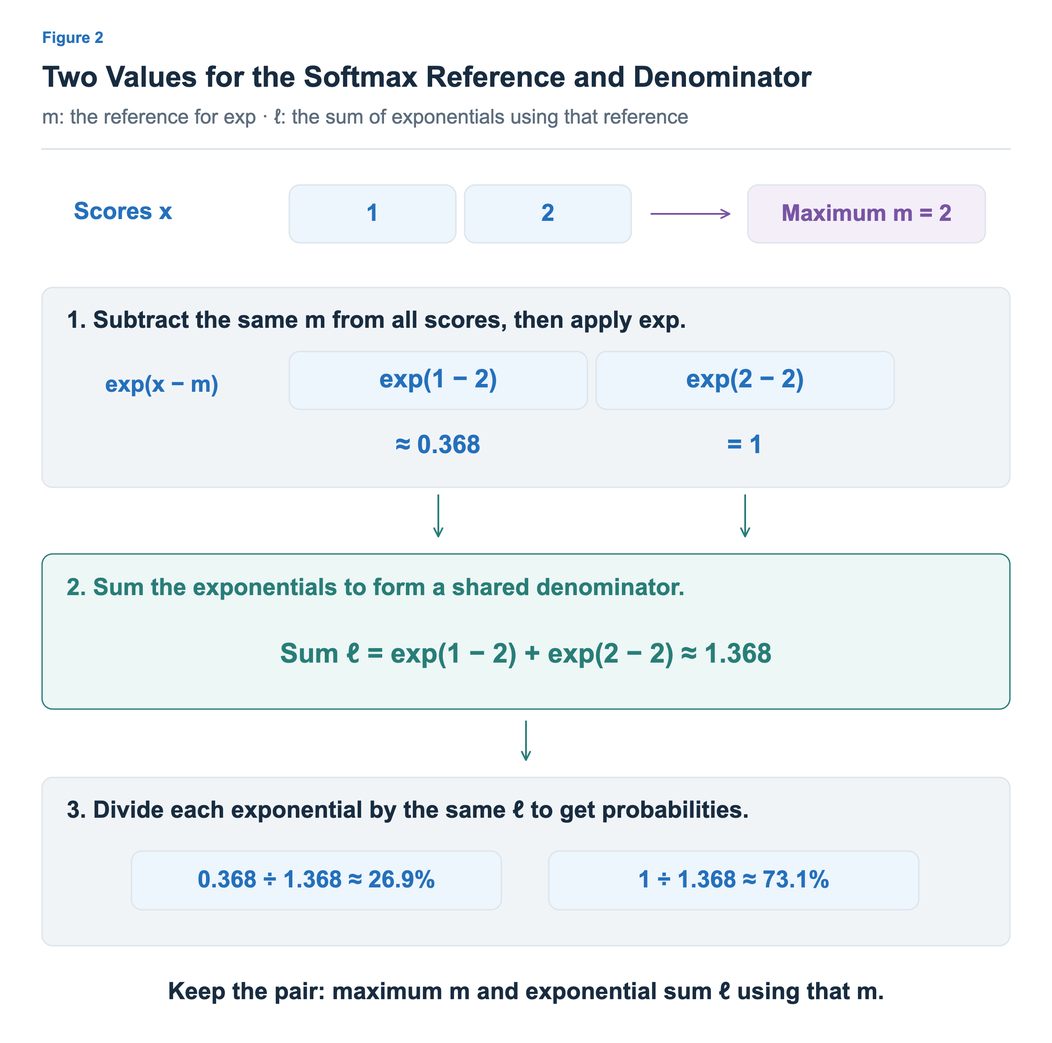
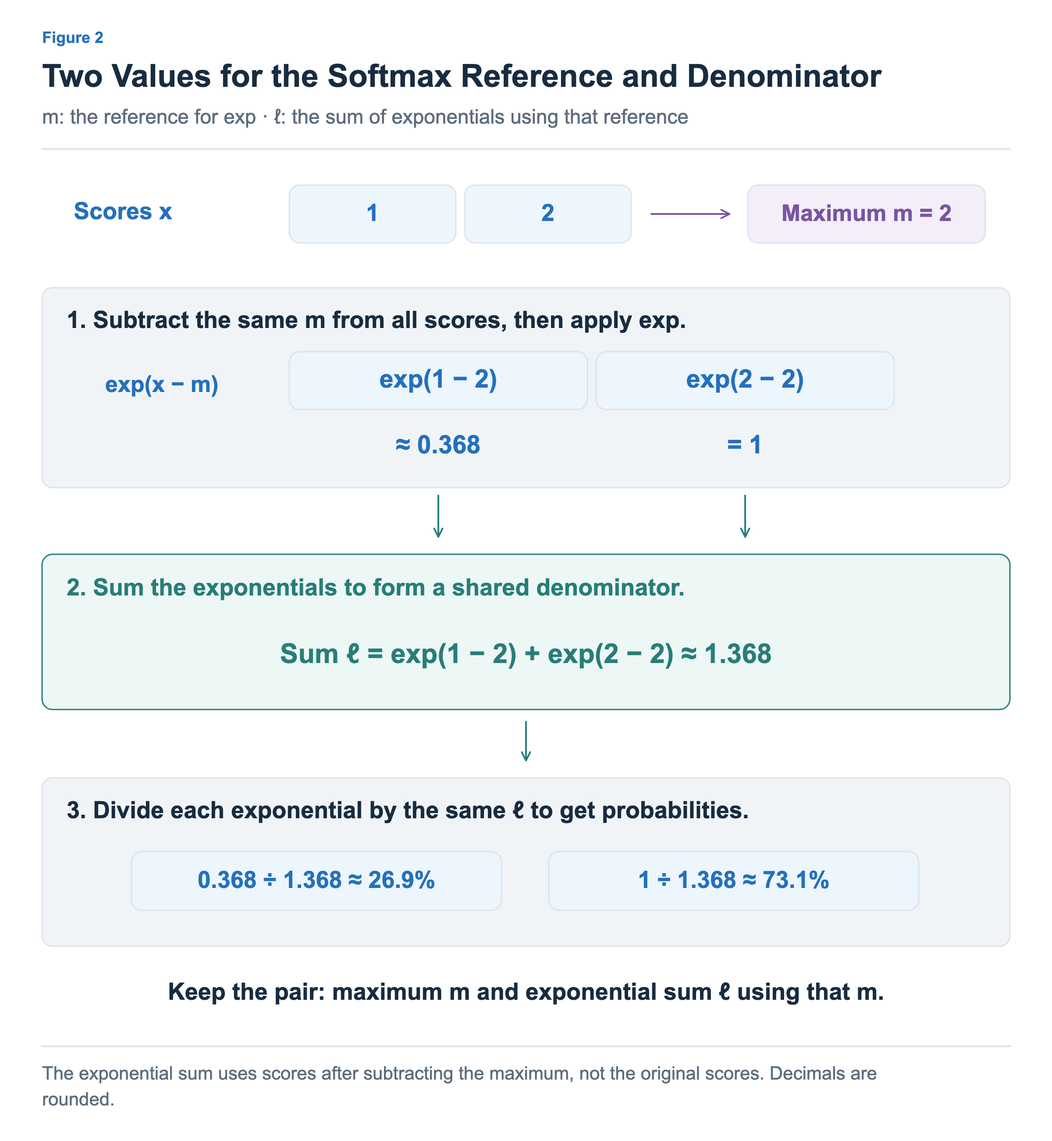
Port online-softmax figures to the shared visualization module
Figures are regenerated from src/data/figures/online-softmax with the standard frame
and in-image captions. Figures had no captions; new ko/en captions are drafted from the figures' own notes and the article text (please review).

diff --git a/src/data/figures/online-softmax/01-stable-softmax.ts b/src/data/figures/online-softmax/01-stable-softmax.ts
@@ -1,0 +1,87 @@
+import {C,Panel,markerUrl,type FigureSpec,type Locale} from '@llm-systems/viz';
+// Ported from the published SVG with its original geometry; replace parts with shared primitives when editing.
+export default {
+  articleId:"online-softmax",figureId:"01-stable-softmax",number:"01-stable-softmax",
+  layout:'wide',screens:['desktop'],
+  eyebrow:["그림 1","Figure 1"],
+  title:["최댓값을 빼서 안정적으로 계산하기","Subtracting the Maximum for Stable Computation"],
+  subtitle:["소프트맥스 복습: 점수에 exp 적용 → 모두 더하기 → 각 값을 합으로 나누기","Softmax recap: Apply exp → Sum all values → Divide each value by the sum"],
+  alt:["점수 1000,1001,1002의 소프트맥스를 비교한다. 직접 exp를 계산하면 FP32와 FP64 범위를 넘어서 유효한 확률을 계산할 수 없다. 모든 점수에서 최댓값 1002를 빼면 -2,-1,0이고 exp 값은 약 0.135,0.368,1이다. 합 약 1.503으로 나누면 약 9.0%,24.5%,66.5%이다. 분자와 분모에 같은 양수 exp(-max)를 곱하므로 실수 연산에서 확률은 동일하다. 부동소수점의 비트 단위 동일성을 뜻하지 않는다. 유한한 점수 예시이며 반올림한 수치다.","Compare softmax for scores 1000,1001,1002. Direct exponentiation exceeds the FP32 and FP64 ranges and cannot yield valid probabilities. Subtracting the maximum 1002 gives -2,-1,0, whose exponentials are about 0.135,0.368,1. Dividing by their sum, about 1.503, gives about 9.0%,24.5%,66.5%. Scaling the numerator and denominator by the same positive factor exp(-max) preserves the probabilities in real arithmetic. This does not mean bitwise identical floating-point results. The example uses finite scores and rounded values."],
+  caption:["실수 연산 기준으로 같은 확률이며, 부동소수점 결과가 비트 단위로 같다는 뜻은 아닙니다. 소수는 반올림한 값입니다.","The probabilities are equal in exact arithmetic; this does not mean bit-identical floating-point results. Decimals are rounded."],
+  sources:[],
+  panels(locale:Locale){
+    const p=new Panel(locale,null,1016,1104,[48,206]);
+    p.el("rect",{x:48,y:207,width:536,height:853,rx:12,fill:C.grayFill,stroke:C.line,"stroke-width":1.5});
+    p.el('text',{x:316,y:253,fill:C.orange,"font-size":29,"font-weight":700,"text-anchor":"middle"},["원래 점수로 계산","Use the original scores"]);
+    p.el('text',{x:76,y:299,fill:C.muted,"font-size":21,"font-weight":400,"text-anchor":"start"},["점수","Scores"]);
+    p.el("rect",{x:96,y:317,width:136.66666666666666,height:66,rx:12,fill:C.blueFill,stroke:C.line,"stroke-width":1.5});
+    p.el('text',{x:164.33333333333331,y:358,fill:C.blue,"font-size":27,"font-weight":600,"text-anchor":"middle"},"1000");
+    p.el("rect",{x:242.66666666666666,y:317,width:136.66666666666666,height:66,rx:12,fill:C.blueFill,stroke:C.line,"stroke-width":1.5});
+    p.el('text',{x:311,y:358,fill:C.blue,"font-size":27,"font-weight":600,"text-anchor":"middle"},"1001");
+    p.el("rect",{x:389.3333333333333,y:317,width:136.66666666666666,height:66,rx:12,fill:C.blueFill,stroke:C.line,"stroke-width":1.5});
+    p.el('text',{x:457.66666666666663,y:358,fill:C.blue,"font-size":27,"font-weight":600,"text-anchor":"middle"},"1002");
+    p.el("path",{d:"M316,439 L316,459",fill:"none",stroke:C.orange,"stroke-width":2,"marker-end":markerUrl(C.orange)});
+    p.el('text',{x:316,y:426,fill:C.orange,"font-size":22,"font-weight":600,"text-anchor":"middle"},["점수를 그대로 사용","Keep scores unchanged"]);
+    p.el("rect",{x:96,y:474,width:136.66666666666666,height:66,rx:12,fill:C.orangeFill,stroke:C.line,"stroke-width":1.5});
+    p.el('text',{x:164.33333333333331,y:515,fill:C.orange,"font-size":27,"font-weight":600,"text-anchor":"middle"},"1000");
+    p.el("rect",{x:242.66666666666666,y:474,width:136.66666666666666,height:66,rx:12,fill:C.orangeFill,stroke:C.line,"stroke-width":1.5});
+    p.el('text',{x:311,y:515,fill:C.orange,"font-size":27,"font-weight":600,"text-anchor":"middle"},"1001");
+    p.el("rect",{x:389.3333333333333,y:474,width:136.66666666666666,height:66,rx:12,fill:C.orangeFill,stroke:C.line,"stroke-width":1.5});
+    p.el('text',{x:457.66666666666663,y:515,fill:C.orange,"font-size":27,"font-weight":600,"text-anchor":"middle"},"1002");
+    p.el("path",{d:"M316,553 L316,601",fill:"none",stroke:C.orange,"stroke-width":2,"marker-end":markerUrl(C.orange)});
+    p.el('text',{x:76,y:590,fill:C.muted,"font-size":21,"font-weight":400,"text-anchor":"start"},["exp 적용","Apply exp"]);
+    p.el("rect",{x:96,y:622,width:136.66666666666666,height:66,rx:12,fill:C.orangeFill,stroke:C.line,"stroke-width":1.5});
+    p.el('text',{x:164.33333333333331,y:663,fill:C.orange,"font-size":23,"font-weight":600,"text-anchor":"middle"},"exp(1000)");
+    p.el("rect",{x:242.66666666666666,y:622,width:136.66666666666666,height:66,rx:12,fill:C.orangeFill,stroke:C.line,"stroke-width":1.5});
+    p.el('text',{x:311,y:663,fill:C.orange,"font-size":23,"font-weight":600,"text-anchor":"middle"},"exp(1001)");
+    p.el("rect",{x:389.3333333333333,y:622,width:136.66666666666666,height:66,rx:12,fill:C.orangeFill,stroke:C.line,"stroke-width":1.5});
+    p.el('text',{x:457.66666666666663,y:663,fill:C.orange,"font-size":23,"font-weight":600,"text-anchor":"middle"},"exp(1002)");
+    p.el('text',{x:316,y:727,fill:C.orange,"font-size":23,"font-weight":700,"text-anchor":"middle"},["FP32·FP64에서 표현 범위를 넘음","Exceeds the FP32 / FP64 range"]);
+    p.el("path",{d:"M316,745 L316,786",fill:"none",stroke:C.orange,"stroke-width":2,"marker-end":markerUrl(C.orange)});
+    p.el("rect",{x:96,y:806,width:430,height:64,rx:12,fill:C.orangeFill,stroke:C.line,"stroke-width":1.5});
+    p.el('text',{x:311,y:846,fill:C.orange,"font-size":25,"font-weight":600,"text-anchor":"middle"},["exp 값의 합도 표현 불가","The sum is also out of range"]);
+    p.el('text',{x:316,y:909,fill:C.muted,"font-size":22,"font-weight":400,"text-anchor":"middle"},["각 exp 값을 합으로 나누기","Divide each exponential by the sum"]);
+    p.el("rect",{x:96,y:938,width:430,height:66,rx:12,fill:C.orangeFill,stroke:C.line,"stroke-width":1.5});
+    p.el('text',{x:311,y:979,fill:C.orange,"font-size":(locale==='ko'?23:22),"font-weight":600,"text-anchor":"middle"},["유효한 확률을 계산할 수 없음","Cannot compute valid probabilities"]);
+    p.el("rect",{x:616,y:207,width:536,height:853,rx:12,fill:C.grayFill,stroke:C.line,"stroke-width":1.5});
+    p.el('text',{x:884,y:253,fill:C.teal,"font-size":29,"font-weight":700,"text-anchor":"middle"},["max를 빼고 계산","Subtract the maximum"]);
+    p.el('text',{x:644,y:299,fill:C.muted,"font-size":21,"font-weight":400,"text-anchor":"start"},["점수","Scores"]);
+    p.el("rect",{x:664,y:317,width:136.66666666666666,height:66,rx:12,fill:C.blueFill,stroke:C.line,"stroke-width":1.5});
+    p.el('text',{x:732.3333333333334,y:358,fill:C.blue,"font-size":27,"font-weight":600,"text-anchor":"middle"},"1000");
+    p.el("rect",{x:810.6666666666666,y:317,width:136.66666666666666,height:66,rx:12,fill:C.blueFill,stroke:C.line,"stroke-width":1.5});
+    p.el('text',{x:879,y:358,fill:C.blue,"font-size":27,"font-weight":600,"text-anchor":"middle"},"1001");
+    p.el("rect",{x:957.3333333333333,y:317,width:136.66666666666666,height:66,rx:12,fill:C.blueFill,stroke:C.line,"stroke-width":1.5});
+    p.el('text',{x:1025.6666666666665,y:358,fill:C.blue,"font-size":27,"font-weight":600,"text-anchor":"middle"},"1002");
+    p.el("path",{d:"M884,439 L884,459",fill:"none",stroke:C.teal,"stroke-width":2,"marker-end":markerUrl(C.teal)});
+    p.el('text',{x:884,y:426,fill:C.teal,"font-size":22,"font-weight":600,"text-anchor":"middle"},["모든 점수에서 max = 1002 빼기","Subtract max = 1002 from all scores"]);
+    p.el("rect",{x:664,y:474,width:136.66666666666666,height:66,rx:12,fill:C.tealFill,stroke:C.line,"stroke-width":1.5});
+    p.el('text',{x:732.3333333333334,y:515,fill:C.teal,"font-size":27,"font-weight":600,"text-anchor":"middle"},"-2");
+    p.el("rect",{x:810.6666666666666,y:474,width:136.66666666666666,height:66,rx:12,fill:C.tealFill,stroke:C.line,"stroke-width":1.5});
+    p.el('text',{x:879,y:515,fill:C.teal,"font-size":27,"font-weight":600,"text-anchor":"middle"},"-1");
+    p.el("rect",{x:957.3333333333333,y:474,width:136.66666666666666,height:66,rx:12,fill:C.tealFill,stroke:C.line,"stroke-width":1.5});
+    p.el('text',{x:1025.6666666666665,y:515,fill:C.teal,"font-size":27,"font-weight":600,"text-anchor":"middle"},"0");
+    p.el("path",{d:"M884,553 L884,601",fill:"none",stroke:C.teal,"stroke-width":2,"marker-end":markerUrl(C.teal)});
+    p.el('text',{x:644,y:590,fill:C.muted,"font-size":21,"font-weight":400,"text-anchor":"start"},["exp 적용","Apply exp"]);
+    p.el("rect",{x:664,y:622,width:136.66666666666666,height:66,rx:12,fill:C.tealFill,stroke:C.line,"stroke-width":1.5});
+    p.el('text',{x:732.3333333333334,y:663,fill:C.teal,"font-size":23,"font-weight":600,"text-anchor":"middle"},"0.135");
+    p.el("rect",{x:810.6666666666666,y:622,width:136.66666666666666,height:66,rx:12,fill:C.tealFill,stroke:C.line,"stroke-width":1.5});
+    p.el('text',{x:879,y:663,fill:C.teal,"font-size":23,"font-weight":600,"text-anchor":"middle"},"0.368");
+    p.el("rect",{x:957.3333333333333,y:622,width:136.66666666666666,height:66,rx:12,fill:C.tealFill,stroke:C.line,"stroke-width":1.5});
+    p.el('text',{x:1025.6666666666665,y:663,fill:C.teal,"font-size":23,"font-weight":600,"text-anchor":"middle"},"1");
+    p.el('text',{x:884,y:727,fill:C.teal,"font-size":23,"font-weight":700,"text-anchor":"middle"},["가장 큰 exp 값은 1","The largest exponential is 1"]);
+    p.el("path",{d:"M884,745 L884,786",fill:"none",stroke:C.teal,"stroke-width":2,"marker-end":markerUrl(C.teal)});
+    p.el("rect",{x:664,y:806,width:430,height:64,rx:12,fill:C.tealFill,stroke:C.line,"stroke-width":1.5});
+    p.el('text',{x:879,y:846,fill:C.teal,"font-size":25,"font-weight":600,"text-anchor":"middle"},["합 ≈ 1.503","Sum ≈ 1.503"]);
+    p.el('text',{x:884,y:909,fill:C.muted,"font-size":22,"font-weight":400,"text-anchor":"middle"},["각 exp 값을 합으로 나누기","Divide each exponential by the sum"]);
+    p.el("rect",{x:664,y:938,width:136.66666666666666,height:66,rx:12,fill:C.tealFill,stroke:C.line,"stroke-width":1.5});
+    p.el('text',{x:732.3333333333334,y:979,fill:C.teal,"font-size":25,"font-weight":600,"text-anchor":"middle"},"9.0%");
+    p.el("rect",{x:810.6666666666666,y:938,width:136.66666666666666,height:66,rx:12,fill:C.tealFill,stroke:C.line,"stroke-width":1.5});
+    p.el('text',{x:879,y:979,fill:C.teal,"font-size":25,"font-weight":600,"text-anchor":"middle"},"24.5%");
+    p.el("rect",{x:957.3333333333333,y:938,width:136.66666666666666,height:66,rx:12,fill:C.tealFill,stroke:C.line,"stroke-width":1.5});
+    p.el('text',{x:1025.6666666666665,y:979,fill:C.teal,"font-size":25,"font-weight":600,"text-anchor":"middle"},"66.5%");
+    p.el("rect",{x:48,y:1093,width:1104,height:121,rx:12,fill:C.tealFill,stroke:C.teal,"stroke-width":1.5});
+    p.el('text',{x:600,y:1139,fill:C.teal,"font-size":27,"font-weight":700,"text-anchor":"middle"},["분자와 분모에 같은 배율 exp(−max)가 적용됩니다.","The same factor exp(−max) scales the numerator and denominator."]);
+    p.el('text',{x:600,y:1184,fill:C.teal,"font-size":25,"font-weight":400,"text-anchor":"middle"},["수학적으로 같은 확률을, 크기가 제한된 exp 값으로 계산합니다.","Mathematically identical probabilities, computed with bounded exponentials."]);
+    return [p];
+  },
+} satisfies FigureSpec;

diff --git a/src/data/figures/online-softmax/03-online-update.ts b/src/data/figures/online-softmax/03-online-update.ts
@@ -1,0 +1,74 @@
+import {C,Panel,markerUrl,type FigureSpec,type Locale} from '@llm-systems/viz';
+// Ported from the published SVG with its original geometry; replace parts with shared primitives when editing.
+export default {
+  articleId:"online-softmax",figureId:"03-online-update",number:"03-online-update",
+  layout:'wide',screens:['desktop'],
+  eyebrow:["그림 3","Figure 3"],
+  title:["새 점수를 반영해 max와 지수합 갱신하기","Updating the Maximum and Sum with New Scores"],
+  subtitle:["점수 묶음을 순서대로 읽으며, 지금까지 처리한 점수의 두 값을 유지합니다.","Read chunks in order, keeping two values for all scores processed so far."],
+  alt:["점수 묶음 1,2 다음 0,1 다음 3,2를 순서대로 처리한다. 첫 상태는 m=2와 l 약 1.368이다. 0,1은 기존 최대보다 작으므로 m=2를 유지하고 exp(0-2)+exp(1-2) 약 0.503을 더해 l 약 1.871을 얻는다. 다음 3,2에서 m은 3으로 커진다. 이전 l 전체에 exp(2-3)을 곱해 약 0.688로 보정하고 새 묶음의 exp(3-3)+exp(2-3) 약 1.368을 더한다. 최종 m=3, l 약 2.056이다. 이전 점수들을 다시 읽지 않고 누적 지수합 한 값에 보정 배율을 곱한다. 이 그림은 정규화 통계의 계산만 다룬다. 모든 확률의 출력에는 각 점수를 최종 m,l로 정규화하는 과정이 추가로 필요하다. 그림 수치는 정확한 계산 후 반올림했다.","Process chunks 1,2 then 0,1 then 3,2 in order. Start with m=2 and l about 1.368. Since 0,1 are below the previous maximum, keep m=2 and add exp(0-2)+exp(1-2), about 0.503, to obtain l about 1.871. The next chunk 3,2 raises m to 3. Multiply the entire previous l by exp(2-3), giving about 0.688, then add exp(3-3)+exp(2-3), about 1.368. The final m is 3 and l is about 2.056. Rescale the single accumulated sum without rereading earlier scores. This figure covers only normalization statistics. Outputting all probabilities additionally requires normalizing each score with the final m and l. Values are rounded after calculation at full precision."],
+  caption:["이 그림은 정규화 통계의 계산만 다룹니다. 확률을 출력하려면 각 점수를 최종 m과 ℓ로 정규화하는 과정이 더 필요합니다.","This figure covers only the normalization statistics; outputting probabilities also requires normalizing each score with the final m and ℓ."],
+  sources:[],
+  panels(locale:Locale){
+    const p=new Panel(locale,null,1471,1104,[48,206]);
+    p.el("rect",{x:48,y:205,width:1104,height:185,rx:12,fill:C.grayFill,stroke:C.line,"stroke-width":1.5});
+    p.el('text',{x:76,y:251,fill:C.ink,"font-size":27,"font-weight":700,"text-anchor":"start"},["시작 · 첫 묶음 [1, 2]를 처리한 상태","Start · After processing the first chunk [1, 2]"]);
+    p.el("rect",{x:85,y:284,width:110,height:66,rx:12,fill:C.paper,stroke:C.line,"stroke-width":1.5});
+    p.el('text',{x:140,y:325,fill:C.muted,"font-size":27,"font-weight":600,"text-anchor":"middle"},"1");
+    p.el("rect",{x:205,y:284,width:110,height:66,rx:12,fill:C.paper,stroke:C.line,"stroke-width":1.5});
+    p.el('text',{x:260,y:325,fill:C.muted,"font-size":27,"font-weight":600,"text-anchor":"middle"},"2");
+    p.el("path",{d:"M356,318 L672,318",fill:"none",stroke:C.muted,"stroke-width":2,"marker-end":markerUrl(C.muted)});
+    p.el('text',{x:511,y:298,fill:C.muted,"font-size":22,"font-weight":400,"text-anchor":"middle"},["두 값 유지","Keep two values"]);
+    p.el("rect",{x:709,y:284,width:169,height:66,rx:12,fill:C.purpleFill,stroke:C.line,"stroke-width":1.5});
+    p.el('text',{x:793.5,y:325,fill:C.purple,"font-size":27,"font-weight":600,"text-anchor":"middle"},"m = 2");
+    p.el("rect",{x:897,y:284,width:227,height:66,rx:12,fill:C.tealFill,stroke:C.line,"stroke-width":1.5});
+    p.el('text',{x:1010.5,y:325,fill:C.teal,"font-size":27,"font-weight":600,"text-anchor":"middle"},"ℓ ≈ 1.368");
+    p.el("rect",{x:48,y:429,width:1104,height:422,rx:12,fill:C.grayFill,stroke:C.line,"stroke-width":1.5});
+    p.el('text',{x:76,y:475,fill:C.purple,"font-size":29,"font-weight":700,"text-anchor":"start"},["① 새 묶음 [0, 1] · max 유지","① New chunk [0, 1] · Keep the maximum"]);
+    p.el("rect",{x:83,y:506,width:110,height:66,rx:12,fill:C.blueFill,stroke:C.line,"stroke-width":1.5});
+    p.el('text',{x:138,y:547,fill:C.blue,"font-size":27,"font-weight":600,"text-anchor":"middle"},"0");
+    p.el("rect",{x:203,y:506,width:110,height:66,rx:12,fill:C.blueFill,stroke:C.line,"stroke-width":1.5});
+    p.el('text',{x:258,y:547,fill:C.blue,"font-size":27,"font-weight":600,"text-anchor":"middle"},"1");
+    p.el('text',{x:386,y:547,fill:C.purple,"font-size":27,"font-weight":700,"text-anchor":"start"},["max(기존 max 2, 묶음 max 1) = 2","max(previous max 2, chunk max 1) = 2"]);
+    p.el("rect",{x:83,y:615,width:362,height:73,rx:12,fill:C.tealFill,stroke:C.line,"stroke-width":1.5});
+    p.el('text',{x:264,y:659.5,fill:C.teal,"font-size":27,"font-weight":600,"text-anchor":"middle"},["기존 합 ≈ 1.368","Previous sum ≈ 1.368"]);
+    p.el('text',{x:480,y:661,fill:C.teal,"font-size":35,"font-weight":700,"text-anchor":"middle"},"+");
+    p.el("rect",{x:515,y:615,width:609,height:73,rx:12,fill:C.blueFill,stroke:C.line,"stroke-width":1.5});
+    p.el('text',{x:819.5,y:659.5,fill:C.blue,"font-size":27,"font-weight":600,"text-anchor":"middle"},"exp(0 − 2) + exp(1 − 2) ≈ 0.503");
+    p.el('text',{x:264,y:726,fill:C.teal,"font-size":23,"font-weight":400,"text-anchor":"middle"},["같은 기준이므로 그대로","Same reference: keep the sum"]);
+    p.el('text',{x:819,y:726,fill:C.blue,"font-size":23,"font-weight":400,"text-anchor":"middle"},["새 점수도 max 2 기준으로 계산","New scores also use max 2"]);
+    p.el('text',{x:84,y:801,fill:C.ink,"font-size":25,"font-weight":600,"text-anchor":"start"},["두 묶음을 반영한 상태","After two chunks"]);
+    p.el("rect",{x:709,y:759,width:169,height:66,rx:12,fill:C.purpleFill,stroke:C.line,"stroke-width":1.5});
+    p.el('text',{x:793.5,y:800,fill:C.purple,"font-size":27,"font-weight":600,"text-anchor":"middle"},"m = 2");
+    p.el("rect",{x:897,y:759,width:227,height:66,rx:12,fill:C.tealFill,stroke:C.line,"stroke-width":1.5});
+    p.el('text',{x:1010.5,y:800,fill:C.teal,"font-size":27,"font-weight":600,"text-anchor":"middle"},"ℓ ≈ 1.871");
+    p.el("path",{d:"M980,864 L980,902",fill:"none",stroke:C.teal,"stroke-width":2,"marker-end":markerUrl(C.teal)});
+    p.el("rect",{x:48,y:921,width:1104,height:485,rx:12,fill:C.grayFill,stroke:C.line,"stroke-width":1.5});
+    p.el('text',{x:76,y:968,fill:C.purple,"font-size":29,"font-weight":700,"text-anchor":"start"},["② 새 묶음 [3, 2] · max 갱신","② New chunk [3, 2] · Update the maximum"]);
+    p.el("rect",{x:83,y:999,width:110,height:66,rx:12,fill:C.blueFill,stroke:C.line,"stroke-width":1.5});
+    p.el('text',{x:138,y:1040,fill:C.blue,"font-size":27,"font-weight":600,"text-anchor":"middle"},"3");
+    p.el("rect",{x:203,y:999,width:110,height:66,rx:12,fill:C.blueFill,stroke:C.line,"stroke-width":1.5});
+    p.el('text',{x:258,y:1040,fill:C.blue,"font-size":27,"font-weight":600,"text-anchor":"middle"},"2");
+    p.el('text',{x:386,y:1040,fill:C.purple,"font-size":27,"font-weight":700,"text-anchor":"start"},["max(기존 max 2, 묶음 max 3) = 3","max(previous max 2, chunk max 3) = 3"]);
+    p.el("rect",{x:83,y:1107,width:450,height:73,rx:12,fill:C.orangeFill,stroke:C.line,"stroke-width":1.5});
+    p.el('text',{x:308,y:1151.5,fill:C.orange,"font-size":28,"font-weight":600,"text-anchor":"middle"},["기존 합 × exp(2 − 3)","Previous sum × exp(2 − 3)"]);
+    p.el('text',{x:574,y:1153,fill:C.teal,"font-size":35,"font-weight":700,"text-anchor":"middle"},"+");
+    p.el("rect",{x:615,y:1107,width:509,height:73,rx:12,fill:C.blueFill,stroke:C.line,"stroke-width":1.5});
+    p.el('text',{x:869.5,y:1151.5,fill:C.blue,"font-size":27,"font-weight":600,"text-anchor":"middle"},"exp(3 − 3) + exp(2 − 3)");
+    p.el('text',{x:308,y:1220,fill:C.orange,"font-size":27,"font-weight":700,"text-anchor":"middle"},"≈ 1.871 × 0.368 ≈ 0.688");
+    p.el('text',{x:869,y:1220,fill:C.blue,"font-size":27,"font-weight":700,"text-anchor":"middle"},"≈ 1.368");
+    p.el('text',{x:308,y:1262,fill:C.orange,"font-size":23,"font-weight":400,"text-anchor":"middle"},["이전 합을 max 3 기준으로 보정","Rescale the previous sum to max 3"]);
+    p.el('text',{x:869,y:1262,fill:C.blue,"font-size":23,"font-weight":400,"text-anchor":"middle"},["새 점수도 max 3 기준으로 계산","New scores also use max 3"]);
+    p.el('text',{x:84,y:1355,fill:C.ink,"font-size":25,"font-weight":600,"text-anchor":"start"},["모든 묶음을 반영한 상태","After all chunks"]);
+    p.el("rect",{x:709,y:1312,width:169,height:66,rx:12,fill:C.purpleFill,stroke:C.line,"stroke-width":1.5});
+    p.el('text',{x:793.5,y:1353,fill:C.purple,"font-size":27,"font-weight":600,"text-anchor":"middle"},"m = 3");
+    p.el("rect",{x:897,y:1312,width:227,height:66,rx:12,fill:C.tealFill,stroke:C.line,"stroke-width":1.5});
+    p.el('text',{x:1010.5,y:1353,fill:C.teal,"font-size":27,"font-weight":600,"text-anchor":"middle"},"ℓ ≈ 2.056");
+    p.el("rect",{x:48,y:1450,width:1104,height:170,rx:12,fill:C.tealFill,stroke:C.teal,"stroke-width":1.5});
+    p.el('text',{x:600,y:1499,fill:C.teal,"font-size":29,"font-weight":700,"text-anchor":"middle"},["max를 먼저 정하고, 같은 max 기준의 합끼리 더합니다.","Choose the max first, then add sums using that same max."]);
+    p.el('text',{x:600,y:1550,fill:C.teal,"font-size":28,"font-weight":600,"text-anchor":"middle"},["새 지수합 = 기존 지수합 × exp(기존 max − 새 max)","New sum = previous sum × exp(previous max − new max)"]);
+    p.el('text',{x:600,y:1591,fill:C.teal,"font-size":28,"font-weight":600,"text-anchor":"middle"},["+ 새 점수들의 exp(점수 − 새 max) 합","+ sum of exp(score − new max) for the new scores"]);
+    p.el('text',{x:600,y:1662,fill:C.muted,"font-size":22,"font-weight":400,"text-anchor":"middle"},["max가 같으면 보정 배율은 exp(0) = 1 · 소수는 반올림한 값","Same max: the scale factor is exp(0) = 1 · Decimals are rounded"]);
+    return [p];
+  },
+} satisfies FigureSpec;

diff --git a/src/data/figures/online-softmax/02-max-and-exp-sum.ts b/src/data/figures/online-softmax/02-max-and-exp-sum.ts
@@ -1,0 +1,46 @@
+import {C,Panel,markerUrl,type FigureSpec,type Locale} from '@llm-systems/viz';
+// Ported from the published SVG with its original geometry; replace parts with shared primitives when editing.
+export default {
+  articleId:"online-softmax",figureId:"02-max-and-exp-sum",number:"02-max-and-exp-sum",
+  layout:'wide',screens:['desktop'],
+  eyebrow:["그림 2","Figure 2"],
+  title:["소프트맥스의 기준과 분모를 구하는 두 값","Two Values for the Softmax Reference and Denominator"],
+  subtitle:["m은 exp 계산의 기준 · ℓ은 같은 기준으로 계산한 exp 값의 합","m: the reference for exp · ℓ: the sum of exponentials using that reference"],
+  alt:["한 행의 점수 1,2에서 최댓값 m=2를 구한다. exp(1-2)는 약 0.368, exp(2-2)는 1이고 지수합 l은 약 1.368이다. 각 exp 값을 같은 l로 나누면 확률은 약 26.9%,73.1%이다. 지수합은 원래 점수에 exp를 적용한 합이 아니라 현재 최댓값을 뺀 점수에 exp를 적용한 합이다. 전체 확률 출력에는 각 점수도 필요하다. 표시 수치는 반올림했다.","For the row of scores 1,2, the maximum m is 2. exp(1-2) is about 0.368 and exp(2-2) is 1, giving exponential sum l about 1.368. Dividing each exponential by the same l gives probabilities of about 26.9%,73.1%. The sum contains exponentials after subtracting the current maximum, not exponentials of the original scores. Outputting all probabilities also requires each score. Displayed values are rounded."],
+  caption:["지수합은 원래 점수가 아니라 최댓값을 뺀 점수에 exp를 적용한 합입니다. 소수는 반올림한 값입니다.","The exponential sum uses scores after subtracting the maximum, not the original scores. Decimals are rounded."],
+  sources:[],
+  panels(locale:Locale){
+    const p=new Panel(locale,null,951,1104,[48,206]);
+    p.el('text',{x:84,y:250,fill:C.blue,"font-size":27,"font-weight":700,"text-anchor":"start"},["점수 x","Scores x"]);
+    p.el("rect",{x:330,y:211,width:190,height:66,rx:12,fill:C.blueFill,stroke:C.line,"stroke-width":1.5});
+    p.el('text',{x:425,y:252,fill:C.blue,"font-size":27,"font-weight":600,"text-anchor":"middle"},"1");
+    p.el("rect",{x:530,y:211,width:190,height:66,rx:12,fill:C.blueFill,stroke:C.line,"stroke-width":1.5});
+    p.el('text',{x:625,y:252,fill:C.blue,"font-size":27,"font-weight":600,"text-anchor":"middle"},"2");
+    p.el("path",{d:"M743,244 L831,244",fill:"none",stroke:C.purple,"stroke-width":2,"marker-end":markerUrl(C.purple)});
+    p.el("rect",{x:853,y:211,width:271,height:66,rx:12,fill:C.purpleFill,stroke:C.line,"stroke-width":1.5});
+    p.el('text',{x:988.5,y:252,fill:C.purple,"font-size":(locale==='ko'?27:26),"font-weight":600,"text-anchor":"middle"},["최댓값 m = 2","Maximum m = 2"]);
+    p.el("rect",{x:48,y:328,width:1104,height:228,rx:12,fill:C.grayFill,stroke:C.line,"stroke-width":1.5});
+    p.el('text',{x:76,y:374,fill:C.ink,"font-size":27,"font-weight":700,"text-anchor":"start"},["1. 모든 점수에서 같은 m을 빼고 exp를 계산합니다.","1. Subtract the same m from all scores, then apply exp."]);
+    p.el("rect",{x:330,y:401,width:340,height:66,rx:12,fill:C.blueFill,stroke:C.line,"stroke-width":1.5});
+    p.el('text',{x:500,y:442,fill:C.blue,"font-size":29,"font-weight":600,"text-anchor":"middle"},"exp(1 − 2)");
+    p.el("rect",{x:680,y:401,width:340,height:66,rx:12,fill:C.blueFill,stroke:C.line,"stroke-width":1.5});
+    p.el('text',{x:850,y:442,fill:C.blue,"font-size":29,"font-weight":600,"text-anchor":"middle"},"exp(2 − 2)");
+    p.el('text',{x:120,y:447,fill:C.blue,"font-size":26,"font-weight":600,"text-anchor":"start"},"exp(x − m)");
+    p.el('text',{x:500,y:517,fill:C.blue,"font-size":29,"font-weight":700,"text-anchor":"middle"},"≈ 0.368");
+    p.el('text',{x:850,y:517,fill:C.blue,"font-size":29,"font-weight":700,"text-anchor":"middle"},"= 1");
+    p.el("path",{d:"M500,565 L500,611",fill:"none",stroke:C.teal,"stroke-width":2,"marker-end":markerUrl(C.teal)});
+    p.el("path",{d:"M850,565 L850,611",fill:"none",stroke:C.teal,"stroke-width":2,"marker-end":markerUrl(C.teal)});
+    p.el("rect",{x:48,y:632,width:1104,height:177,rx:12,fill:C.tealFill,stroke:C.teal,"stroke-width":1.5});
+    p.el('text',{x:76,y:679,fill:C.teal,"font-size":27,"font-weight":700,"text-anchor":"start"},["2. exp 값을 더해 공통 분모를 만듭니다.","2. Sum the exponentials to form a shared denominator."]);
+    p.el('text',{x:600,y:756,fill:C.teal,"font-size":31,"font-weight":700,"text-anchor":"middle"},["지수합 ℓ = exp(1 − 2) + exp(2 − 2) ≈ 1.368","Sum ℓ = exp(1 − 2) + exp(2 − 2) ≈ 1.368"]);
+    p.el("path",{d:"M600,823 L600,866",fill:"none",stroke:C.teal,"stroke-width":2,"marker-end":markerUrl(C.teal)});
+    p.el("rect",{x:48,y:887,width:1104,height:192,rx:12,fill:C.grayFill,stroke:C.line,"stroke-width":1.5});
+    p.el('text',{x:76,y:933,fill:C.ink,"font-size":27,"font-weight":700,"text-anchor":"start"},["3. 각 exp 값을 같은 ℓ로 나누면 확률이 됩니다.","3. Divide each exponential by the same ℓ to get probabilities."]);
+    p.el("rect",{x:150,y:971,width:422,height:67,rx:12,fill:C.blueFill,stroke:C.line,"stroke-width":1.5});
+    p.el('text',{x:361,y:1012.5,fill:C.blue,"font-size":27,"font-weight":600,"text-anchor":"middle"},"0.368 ÷ 1.368 ≈ 26.9%");
+    p.el("rect",{x:626,y:971,width:422,height:67,rx:12,fill:C.blueFill,stroke:C.line,"stroke-width":1.5});
+    p.el('text',{x:837,y:1012.5,fill:C.blue,"font-size":27,"font-weight":600,"text-anchor":"middle"},"1 ÷ 1.368 ≈ 73.1%");
+    p.el('text',{x:600,y:1140,fill:C.ink,"font-size":27,"font-weight":700,"text-anchor":"middle"},["함께 기억할 두 값: 최댓값 m과, 그 m을 기준으로 구한 지수합 ℓ","Keep the pair: maximum m and exponential sum ℓ using that m."]);
+    return [p];
+  },
+} satisfies FigureSpec;
